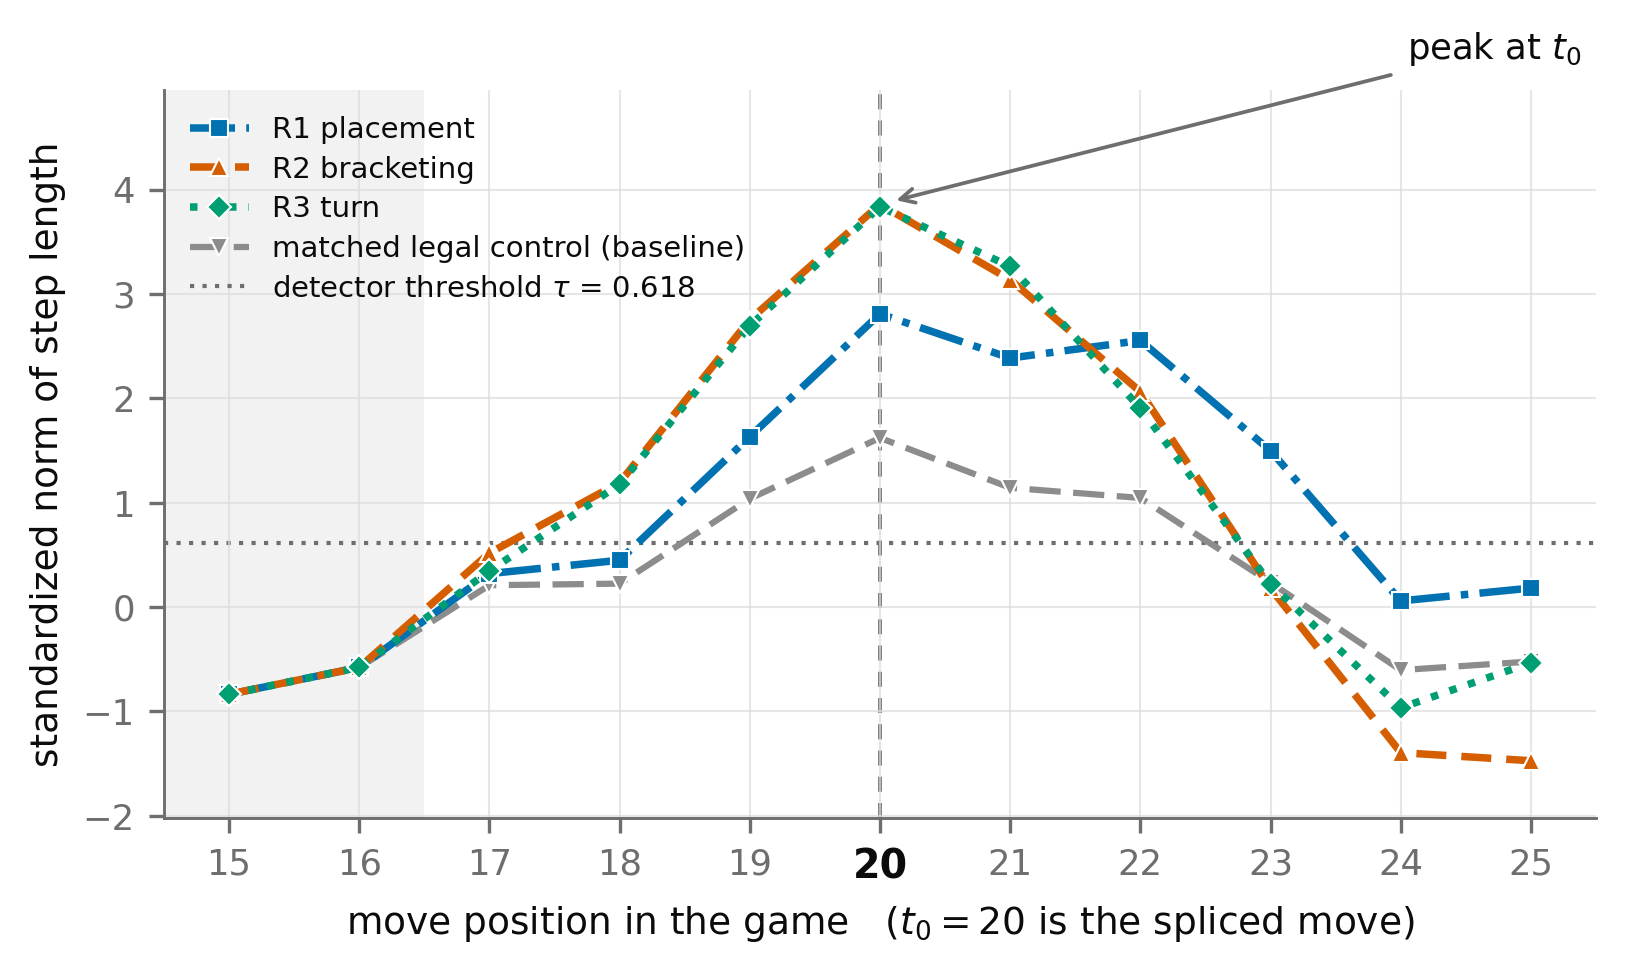
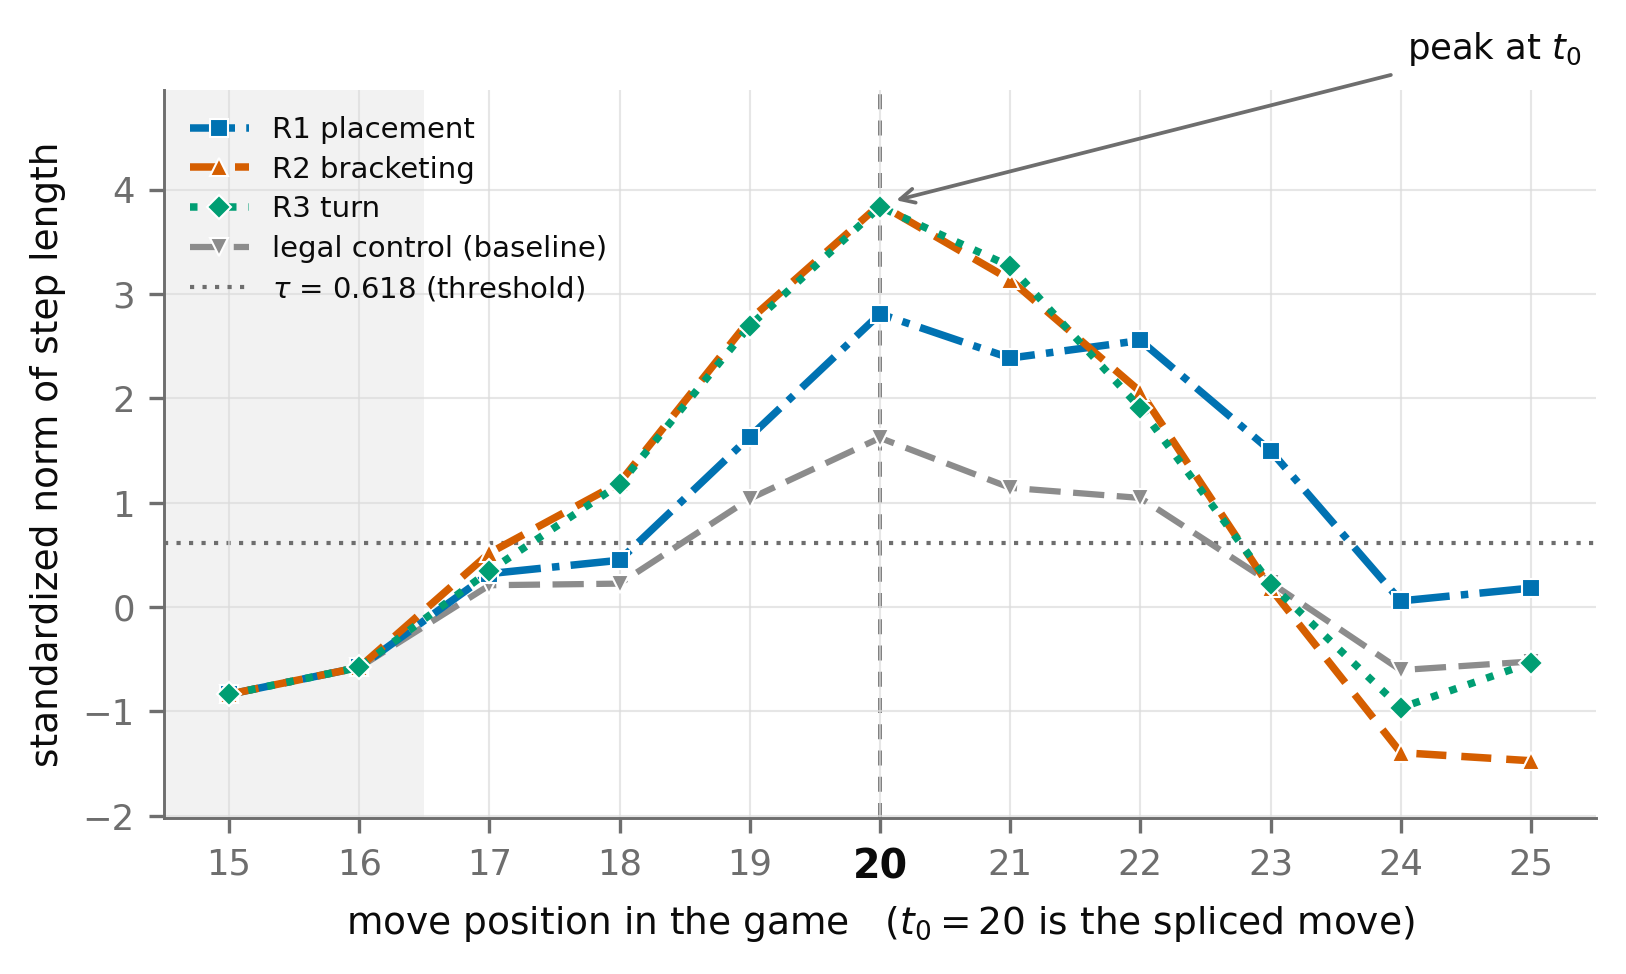
detector_trace: legend wording matches score_histograms
tau reads "tau = 0.618 (threshold)" and the control arm "legal control
(baseline)", the same two strings the density figure beside it uses.

Changed region(s): [[0.1538, 0.2464, 0.4613, 0.308]]

diff --git a/analysis/violation_divergence/illegal_move_detector/figure_trace.py b/analysis/violation_divergence/illegal_move_detector/figure_trace.py
@@ -42,7 +42,7 @@ HALF = 5   # plies drawn either side of t0; select_game.py guaranteed they fit i
 RULE_DASH = {"R1": (0, (6, 1.5, 1, 1.5)), "R2": (0, (4, 2)), "R3": (0, (1, 1.6))}
 ARM_STYLE = {
     **{r: {**PROBE_CLASS_STYLE[r], "ls": RULE_DASH[r], "lw": 1.8, "zorder": 4} for r in RULES},
-    "control": {**NULL, "label": "matched legal control (baseline)"},
+    "control": {**NULL, "label": "legal control (baseline)"},
 }
 
 
@@ -84,7 +84,7 @@ def draw(game: dict, move: np.ndarray, s: np.ndarray, tau: float, camera_ready: 
     # The threshold line keeps its label in the legend rather than in-panel prose: at this
     # game's scale every clear stretch of the tau line is crossed by a curve.
     ax.plot([], [], color=MUTED, ls=(0, (1, 2)), lw=1.0,
-            label=f"detector threshold $\\tau$ = {tau:.3f}")
+            label=f"$\\tau$ = {tau:.3f} (threshold)")
     ax.legend(loc="upper left", fontsize=7, handlelength=2.0, labelspacing=0.4,
               borderaxespad=0.5)
     fig.tight_layout()

diff --git a/analysis/violation_divergence/illegal_move_detector/README.md b/analysis/violation_divergence/illegal_move_detector/README.md
@@ -53,7 +53,7 @@ out of the baseline it is scored against.
 | file | what it shows |
 |---|---|
 | `board_states.png` | the board at *t0*−2 … *t0*+2 of game 3889: the legal move played at each of the four surrounding plies, and the illegal move the drawn branch plays at *t0* |
-| `detector_trace.png` | the detector score for that same game over moves *t0*−5 … *t0*+5, three rule arms against the matched legal control, with τ |
+| `detector_trace.png` | the detector score for that same game over moves *t0*−5 … *t0*+5, three rule arms against the legal control, with τ |
 | `auroc_by_rule.png` | AUROC at *t0*, illegal branch against the same game's legal control, pooled and per rule, n = 500 games |
 | `score_histograms.png` | the distributions that AUROC summarizes: the score at *t0* for legal, illegal, R1, R2, R3, the same 500 games, with τ |
 | `score_histograms_GatedAnnealTrainer-othello.png` | the same five distributions read through the GatedAnneal dictionary, same 500 games — panel (b) of `changepoint_localization/figures/threshold_detection.png`, whose panel (a) ranks that space first |
